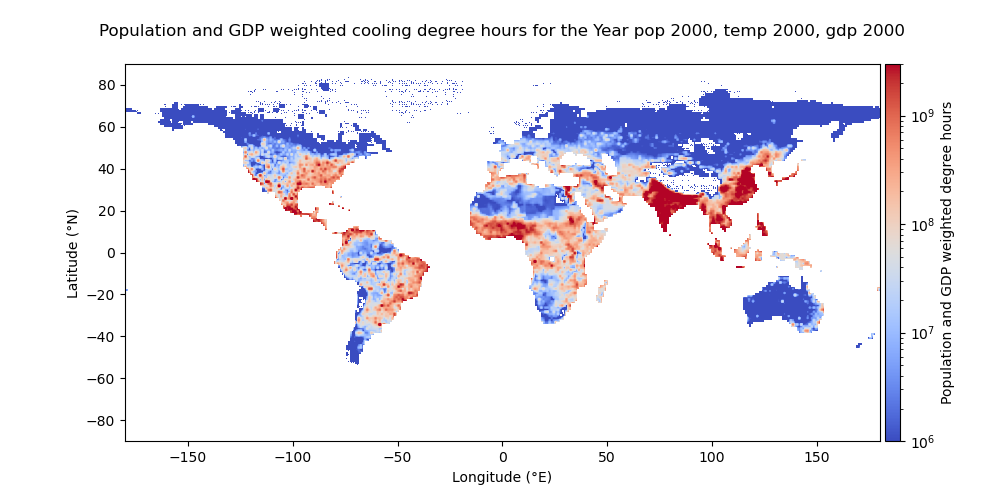
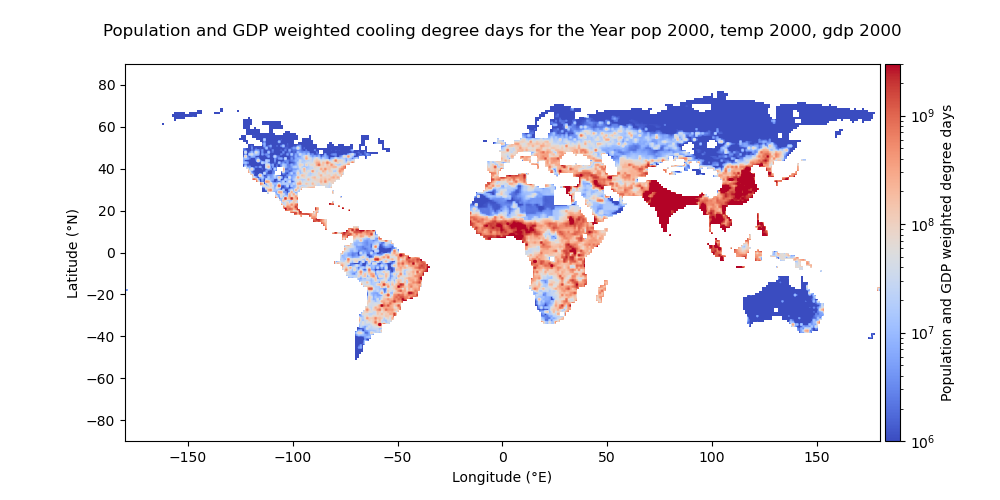
First rough complete calculation

diff --git a/weighted_deg_time.py b/weighted_deg_time.py
@@ -26,7 +26,8 @@ def main():
     grid = [[-89.5,90.5],[-179.5,180.5],1]
     
     ref_year_scenario_run = False
-    for case in ["population_effect", "temperature_effect", "gdp_effect", "all_effects"]:
+    effects = ["temperature_effect", "gdp_effect", "population_effect", "all_effects"]
+    for case in effects:
         print ("case: ", case)
 
         if case == "population_effect":
@@ -94,26 +95,31 @@ def main():
                     if gdp_year < 2020:
                         gdp_data_year = get_gdp_data(gdp_year)
                         yearly_deg_time_AC = get_deg_time_data(gdp_year, era5_path)
+                        pop_data_year_AC = get_pop_data(gdp_year)
                     else:
                         future_gdp_file = 'data_experiencedT/GDP_SSP5_1km/GDP{}_ssp5.tif'.format(gdp_year)
                         gdp_data_year = compute_pop_gdp_prediction(future_gdp_file, grid)
                         yearly_deg_time_AC = compute_degree_time_prediction(gdp_year, futureT_file, grid)
+                        future_pop_file_AC = 'data_experiencedT/SSP5_population/SSP5_{}.tif'.format(gdp_year)
+                        pop_data_year_AC = compute_pop_gdp_prediction(future_pop_file_AC, grid)
 
                     # Set all to type float32
                     modified_arrays = []
-                    for data in [yearly_degree_time, yearly_deg_time_AC, pop_data_year, gdp_data_year]:
+                    for data in [yearly_degree_time, yearly_deg_time_AC, pop_data_year, pop_data_year_AC, gdp_data_year]:
                         data = data.astype(np.float32)
                         data['latitude'] = data['latitude'].astype(np.float32)
                         data['longitude'] = data['longitude'].astype(np.float32)
                         modified_arrays.append(data)
-                    yearly_degree_time, yearly_deg_time_AC, pop_data_year, gdp_data_year = modified_arrays
-                    
+                    yearly_degree_time, yearly_deg_time_AC, pop_data_year, pop_data_year_AC, gdp_data_year = modified_arrays
+
                     # Compute exposure factor
-                    exposure_factor = get_exposure_factor(gdp_data_year, yearly_deg_time_AC)
+                    if gdp_year > 2020:
+                        gdp_data_year = gdp_data_year/pop_data_year_AC
+                        gdp_data_year = xr.where(pop_data_year == 0, np.nan, gdp_data_year)
+                    exposure_factor = get_exposure_factor(gdp_data_year, yearly_deg_time_AC, gdp_year)
 
                     # Multiply degree time grid by population grid and gdp grid
                     weighted_cdd = yearly_degree_time * pop_data_year * exposure_factor
-                    # print("weighted_cdd", weighted_cdd)
                     
                     # Set 0 to NaN
                     weighted_cdd = weighted_cdd.where(weighted_cdd != 0)
@@ -123,21 +129,31 @@ def main():
                         weighted_cdd.to_netcdf('data_experiencedT/weighted_cdd_2030.nc')
       
                     # Compute global average and store in dictionary    
-                    # global_average = weighted_cdd.mean(dim=['latitude', 'longitude'], skipna=True)
                     global_average = weighted_cdd.sum(dim=['latitude', 'longitude'], skipna=True) / pop_data_year.sum(dim=['latitude', 'longitude'], skipna=True)
                     deg_time_dict["pop{0}_temp{1}_gdp{2}".format(pop_year, temp_year, gdp_year)] = global_average
-                    # print("global_average", global_average)
+                    print("global_average: ", global_average)
 
                     # Plot the population weighted cooling degree time for 2015 for all effects separately
                     if pop_year == 2100 or temp_year == 2100 or gdp_year == 2100 or (pop_year == 2000 and temp_year == 2000 and gdp_year == 2000):
                         plot_map(weighted_cdd, pop_year, temp_year, gdp_year)
 
+                    # Control plots
+                    if (pop_year == 2000 and temp_year == 2000 and gdp_year == 2000) or (pop_year == 2100 and temp_year == 2100 and gdp_year == 2100):
+                        plot_map(yearly_degree_time, pop_year, temp_year, gdp_year, control='degree_time')
+                        plot_map(pop_data_year, pop_year, temp_year, gdp_year, control='population')
+                        plot_map(gdp_data_year, pop_year, temp_year, gdp_year, control='gdp')
+                        plot_map(exposure_factor, pop_year, temp_year, gdp_year, control='exposure_factor')
+
+                        # Plot without population weighting
+                        weighted_cdd_no_pop = yearly_degree_time * exposure_factor
+                        plot_map(weighted_cdd_no_pop, pop_year, temp_year, gdp_year, control='degree_time*exposure_factor')
+
         # Accumulate data in dictionary                
         all_data_dict[case] = deg_time_dict
 
     # Copy reference year data to all cases
-    for case in ["temperature_effect", "gdp_effect", "all_effects"]:
-        all_data_dict[case]["pop2000_temp2000_gdp2000"] = all_data_dict["population_effect"]["pop2000_temp2000_gdp2000"]
+    for case in effects[1:]:
+        all_data_dict[case]["pop2000_temp2000_gdp2000"] = all_data_dict[effects[0]]["pop2000_temp2000_gdp2000"]
     # Plot the time curves for the different effects
     plot_time_curve(all_data_dict, all_years)
 

diff --git a/plotting.py b/plotting.py
@@ -5,7 +5,7 @@ import matplotlib.pyplot as plt
 from matplotlib.colors import LogNorm
 from mpl_toolkits.axes_grid1 import make_axes_locatable
 
-def plot_map(pop_weighted_cdd, pop_year, temp_year, gdp_year):
+def plot_map(pop_weighted_cdd, pop_year, temp_year, gdp_year, control=None):
     """
     Plot the population weighted cooling degree days
     """
@@ -15,7 +15,24 @@ def plot_map(pop_weighted_cdd, pop_year, temp_year, gdp_year):
     # Plot the data
     # Use imshow to plot the data with the latitude values on the y-axis and longitude values on the x-axis
     # color bar same height as plot
-    pop_plot = ax.imshow(pop_weighted_cdd, origin='lower', extent=[-180, 180, 90, -90], cmap='coolwarm', norm=LogNorm(vmin=1e6, vmax=3e9))
+    if control == None:
+        min, max = 1e6, 3e9
+        pop_plot = ax.imshow(pop_weighted_cdd, origin='lower', extent=[-180, 180, 90, -90], cmap='coolwarm', norm=LogNorm(vmin=min, vmax=max))
+    else:
+        if control == 'degree_time':
+            min, max = 0, 8000
+        elif control == 'population':
+            min, max = 0, 5e6
+        elif control == 'gdp':
+            min, max = 0, 1.5e5
+        elif control == 'exposure_factor':
+            min, max = 0, 1
+        elif control == 'degree_time*exposure_factor':
+            min, max = 0, 8000
+        else:
+            raise ValueError("Unknown plot type ", control)
+        pop_plot = ax.imshow(pop_weighted_cdd, origin='lower', extent=[-180, 180, 90, -90], cmap='coolwarm', vmin=min, vmax=max)
+
     # Add a colorbar 
     # Create an axes on the right side of ax. The width of cax will be 5%
     # of ax and the padding between cax and ax will be fixed at 0.05 inch.
@@ -24,8 +41,22 @@ def plot_map(pop_weighted_cdd, pop_year, temp_year, gdp_year):
 
     # Add a colorbar in the created axes
     cbar = plt.colorbar(pop_plot, cax=cax, orientation='vertical')
-    cbar.set_label('Population and GDP weighted degree days')
-    
+    if control == None:
+        cbar.set_label('Population and GDP weighted degree days')
+    else:
+        if control == 'degree_time':
+            unit = 'cooling degree days'
+        elif control == 'population':
+            unit = 'No. of people'
+        elif control == 'gdp':
+            unit = 'GDP per capita'
+        elif control == 'exposure_factor':
+            unit = '% of population exposed to heat'
+        elif control == 'degree_time*exposure_factor':
+            unit = 'cooling degree days'
+        else:
+            raise ValueError("control should be 'degree_time', 'population', 'gdp' or 'exposure_factor'")
+        cbar.set_label(unit)
     # Flip the y-axis so that 0 is at the top
     ax.invert_yaxis()
 
@@ -35,13 +66,19 @@ def plot_map(pop_weighted_cdd, pop_year, temp_year, gdp_year):
     ax.set_ylabel('Latitude (°N)')
 
     # Set the title of the plot
-    ax.set_title('Population and GDP weighted cooling degree days for the Year pop {0}, temp {1}, gdp {2}'.format(pop_year, temp_year, gdp_year), pad=20)
-
+    if control == None:
+        ax.set_title('Population and GDP weighted cooling degree days for the Year pop {0}, temp {1}, gdp {2}'.format(pop_year, temp_year, gdp_year), pad=20)
+    else:
+        ax.set_title('{0} for year {1}'.format(control, pop_year), pad=20)
     # Save the figure
     if not os.path.exists('Figures'):
         os.makedirs('Figures')
-    plt.savefig('Figures/population_degree_days_{0}_{1}_{2}.png'.format(pop_year, temp_year, gdp_year))
-
+    if control == None:
+        plt.savefig('Figures/population_degree_days_{0}_{1}_{2}.png'.format(pop_year, temp_year, gdp_year))
+    else:
+        if not os.path.exists('Figures/control_plots'):
+            os.makedirs('Figures/control_plots')
+        plt.savefig('Figures/control_plots/{0}_{1}.png'.format(control, pop_year))
 
 def plot_time_curve(data_dict, plot_years):
     """
@@ -58,14 +95,13 @@ def plot_time_curve(data_dict, plot_years):
     gdp_effect = [data_dict["gdp_effect"]["pop2000_temp2000_gdp{0}".format(year)] for year in plot_years]
     all_effects = [data_dict["all_effects"]["pop{0}_temp{0}_gdp{0}".format(year, year)] for year in plot_years]
 
-    # print("pop_effect", pop_effect)
-    # print("temp_effect", temp_effect)
-    # print("gdp_effect", gdp_effect)
-    # print("all_effects", all_effects)
     ax.plot(plot_years, pop_effect, label='Population effect')
     ax.plot(plot_years, temp_effect, label='Temperature effect')
     ax.plot(plot_years, gdp_effect, label='GDP effect/AC penetration')
-    ax.plot(plot_years, all_effects, label='All effects')
+    ax.plot(plot_years, all_effects, label='All effects', color='black')
+
+    # Dashed horizontal line at reference year
+    ax.axhline(data_dict["all_effects"]["pop2000_temp2000_gdp2000"], color='grey', linestyle='--', label='Reference year 2000')
 
     # Add a legend
     ax.legend()
@@ -74,8 +110,6 @@ def plot_time_curve(data_dict, plot_years):
     ax.set_xticks(plot_years)
     ax.set_xlim([plot_years[0], plot_years[-1]])
     ax.set_ylabel('Experienced cooling degree days per person')
-    # Dashed horizontal line at reference year
-    ax.axhline(data_dict["all_effects"]["pop2000_temp2000_gdp2000"], color='black', linestyle='--')
     ax.set_title('Effects of population, temperature and GDP change on experienced cooling degree days', pad=20)
 
     # Save the figure

diff --git a/futureT.py b/futureT.py
@@ -10,12 +10,17 @@ def compute_degree_time_prediction(year, T_file, grid):
     futureT = xr.open_dataset(T_file)['tas']
     futureT = futureT.sel(time=futureT['time.year'] == year)
     futureT = futureT.rename({'lon': 'longitude', 'lat': 'latitude'})
+    
+    # Shift from 0-360 to -180-180
+    futureT = futureT.assign_coords(longitude=(((futureT.longitude + 178.6) % 360) - 180)).sortby('longitude')
+    
     # Regrid
     ds_out = xr.Dataset({"longitude": (["longitude"], np.arange(grid[1][0], grid[1][1], grid[2])),
-                         "latitude": (["latitude"], np.arange(grid[0][0], grid[0][1], grid[2])),})
+                         "latitude": (["latitude"], np.arange(grid[0][0], grid[0][1], grid[2])),})     
+
     regridder = xe.Regridder(futureT, ds_out, "bilinear")
     futureT = regridder(futureT)
-   
+
     yearly_deg_time = get_yearly_degree_time(futureT, None)
     yearly_deg_time = yearly_deg_time.transpose("latitude", "longitude")
 
@@ -24,8 +29,6 @@ def compute_degree_time_prediction(year, T_file, grid):
 
     return yearly_deg_time
     
-
-
 
 def compute_pop_gdp_prediction(filename, grid):
     """
@@ -37,12 +40,8 @@ def compute_pop_gdp_prediction(filename, grid):
     future_val_ds = future_val.to_dataset(name='val')
     future_val = future_val_ds.rename({'x': 'longitude', 'y': 'latitude'})
     
-    if "population" in filename:
-        future_val = future_val.coarsen(latitude=120, longitude=120, boundary='trim').sum()
-    elif "GDP" in filename:
-        future_val = future_val.coarsen(latitude=120, longitude=120, boundary='trim').mean()
-    else:
-        raise ValueError("Unknown file type: {}".format(filename))
+    # Regrid
+    future_val = future_val.coarsen(latitude=120, longitude=120, boundary='trim').sum()
 
     # Create new latitude values
     new_lat_values = np.arange(89.5, -90.5, -1.)

diff --git a/historicalT.py b/historicalT.py
@@ -43,13 +43,17 @@ def get_gdp_data(year):
 
     return gdp_data_year
 
-def get_exposure_factor(gdp_data, deg_days):
+def get_exposure_factor(gdp_data, deg_days, gdp_year):
     """
     Get AC penetration factor for given GDP and cooling degree time
     """
     # Compute availability as a function of GDP
-    # Factor 0.68 between 1995 USD and 2011 USD
-    inflation_factor = 0.68
+    # Factor 0.68 between 1995 USD and 2011 USD: Function derived with 1995 dollars and historical data in 2011 dollars
+    if gdp_year < 2020:
+        inflation_factor = 0.68
+    else:
+        # Predictions of GDP are in 2005 dollars
+        inflation_factor = 0.78
     availability = 1/(1+np.exp(4.152)*np.exp(-0.237*inflation_factor*gdp_data/1000))
     # Compute AC saturation as a function of cooling degree days
     saturation = 1. - 0.949*np.exp(-0.00187*deg_days)
@@ -91,7 +95,6 @@ def get_yearly_degree_time(surface_temp, yearly_degree_time, base_temp = 18.0):
         degree_days = surface_temp - (base_temp + 273.15)
         # Set all negative values to zero
         degree_days = degree_days.where(degree_days > 0, 0)
-        # print("Daily deg day historical", degree_days.sum(dim=['latitude', 'longitude'], skipna=True))
 
     # Sum over all grid cells
     if yearly_degree_time is None:
